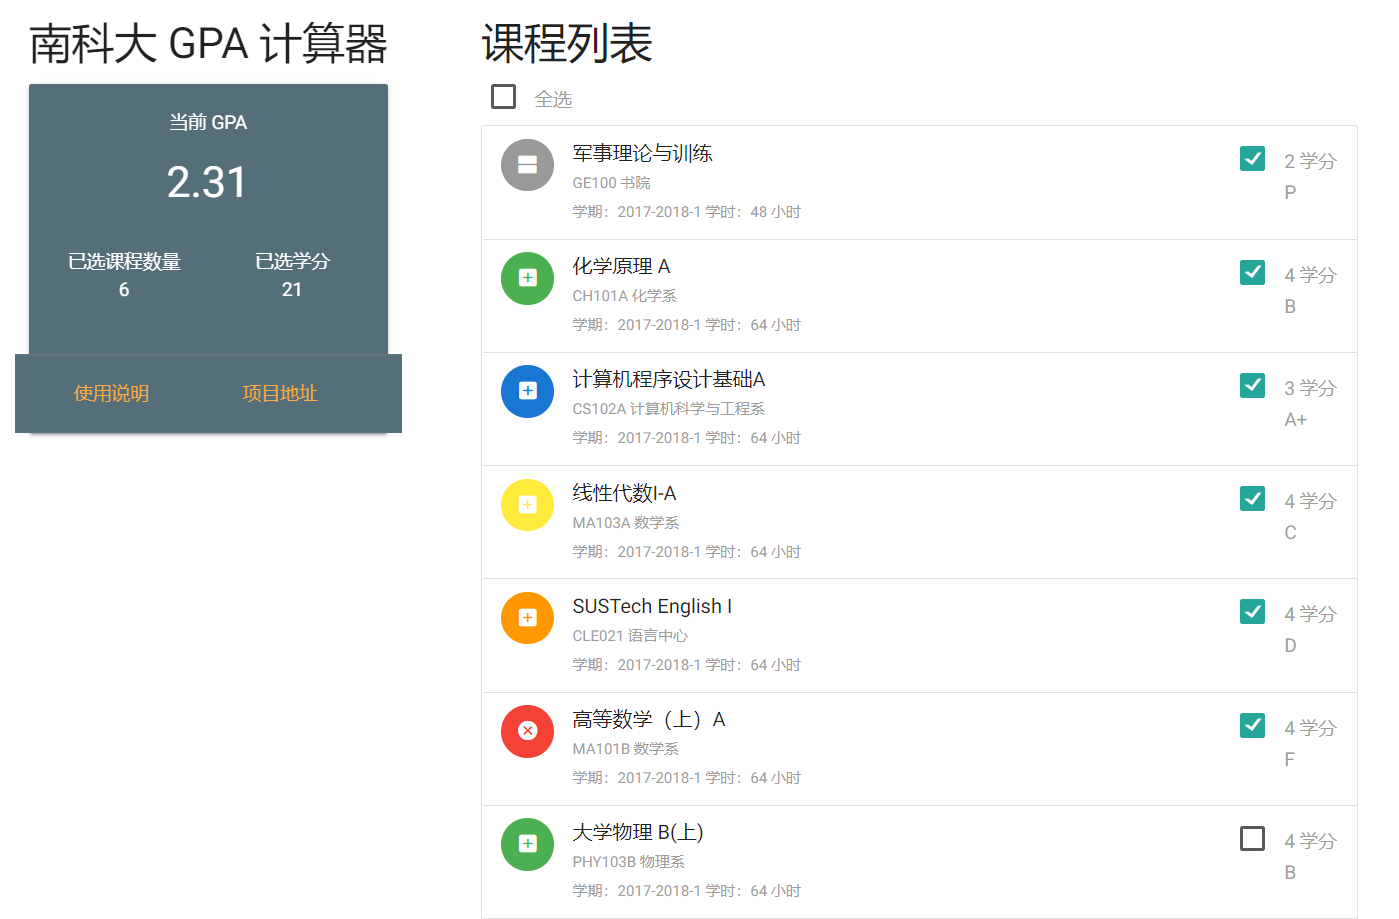
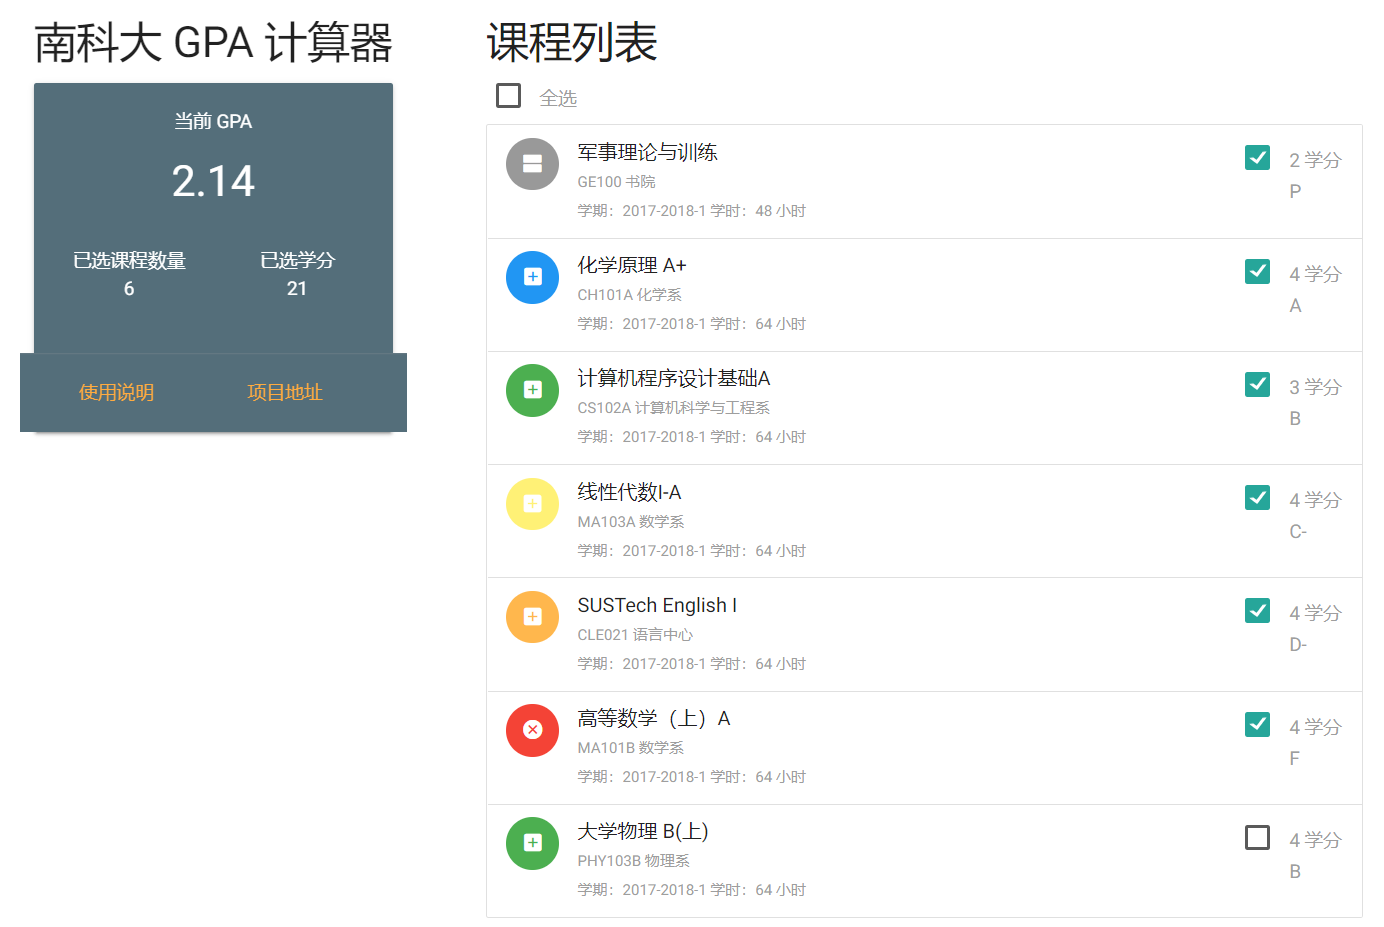
update README.md

diff --git a/README.md b/README.md
@@ -1,10 +1,23 @@
 # 南科大 GPA 计算器
 
-## 使用平台要求
+## 特性
 
-PC 端 chrome 浏览器，或其他支持命令行操作的浏览器。
+* 自动处理课程成绩信息。
+
+* 支持选择特定课程计算 GPA（可用于专业 GPA 的计算等）。
+
+* 课程成绩信息保存在 GPA 计算器页面地址中，复制页面地址即可保存或者传递课程成绩信息。
+
 
 ## 使用说明
+
+### 使用平台要求
+
+**导入课程成绩信息：**PC 端 chrome 浏览器，或其他支持命令行操作的浏览器。
+
+**浏览计算 GPA：**PC端或手机端浏览器皆可。
+
+### 导入课程成绩信息步骤
 
 1. 复制如下初始化代码：
 
@@ -16,11 +29,19 @@ head = document.getElementsByTagName('head')[0].appendChild(newscript);
 ```
 
 2. [点击此链接](http://ehall.sustech.edu.cn/xhxsfw/sys/xsjwxx/*default/index.do)进入 ehall 学业信息页面。如未登录，请先登录。
+
 3. 按<code>F12</code>按键进入开发者模式，选择命令行（Console），在命令行位置粘贴刚刚复制的代码，按下回车执行代码。
+
 4. 然后输入<code>run()</code>，按下回车运行，此时会弹出 GPA 计算器的页面。如果浏览器屏蔽了自动弹窗，请取消屏蔽。
 
-![进入开发者模式后的操作示意图](img/操作示意图.png)
+   ![进入开发者模式后的操作示意图](img/操作示意图.png)
 
-## 截图
+## Demo
+
+### 链接地址
+
+[点击此处进入](https://chenyuheng.github.io/SUSTech-GPA-Calculator/content.html?courseLength=7&t0=A&cc0=GE100&g0=P&cn0=%E5%86%9B%E4%BA%8B%E7%90%86%E8%AE%BA%E4%B8%8E%E8%AE%AD%E7%BB%83&d0=%E4%B9%A6%E9%99%A2&s0=2017-2018-1&c0=2&lh0=48&t1=D&cc1=CH101A&g1=A&cn1=%E5%8C%96%E5%AD%A6%E5%8E%9F%E7%90%86%20A+&d1=%E5%8C%96%E5%AD%A6%E7%B3%BB&s1=2017-2018-1&c1=4&lh1=64&t2=D&cc2=CS102A&g2=B&cn2=%E8%AE%A1%E7%AE%97%E6%9C%BA%E7%A8%8B%E5%BA%8F%E8%AE%BE%E8%AE%A1%E5%9F%BA%E7%A1%80A&d2=%E8%AE%A1%E7%AE%97%E6%9C%BA%E7%A7%91%E5%AD%A6%E4%B8%8E%E5%B7%A5%E7%A8%8B%E7%B3%BB&s2=2017-2018-1&c2=3&lh2=64&t3=D&cc3=MA103A&g3=C-&cn3=%E7%BA%BF%E6%80%A7%E4%BB%A3%E6%95%B0I-A&d3=%E6%95%B0%E5%AD%A6%E7%B3%BB&s3=2017-2018-1&c3=4&lh3=64&t4=D&cc4=CLE021&g4=D-&cn4=SUSTech%20English%20I&d4=%E8%AF%AD%E8%A8%80%E4%B8%AD%E5%BF%83&s4=2017-2018-1&c4=4&lh4=64&t5=D&cc5=MA101B&g5=F&cn5=%E9%AB%98%E7%AD%89%E6%95%B0%E5%AD%A6%EF%BC%88%E4%B8%8A%EF%BC%89A&d5=%E6%95%B0%E5%AD%A6%E7%B3%BB&s5=2017-2018-1&c5=4&lh5=64&t6=D&cc6=PHY103B&g6=B&cn6=%E5%A4%A7%E5%AD%A6%E7%89%A9%E7%90%86%20B(%E4%B8%8A)&d6=%E7%89%A9%E7%90%86%E7%B3%BB&s6=2017-2018-1&c6=4&lh6=64)
+
+### 截图
 
 ![应用截图](img/screenshot.png)
